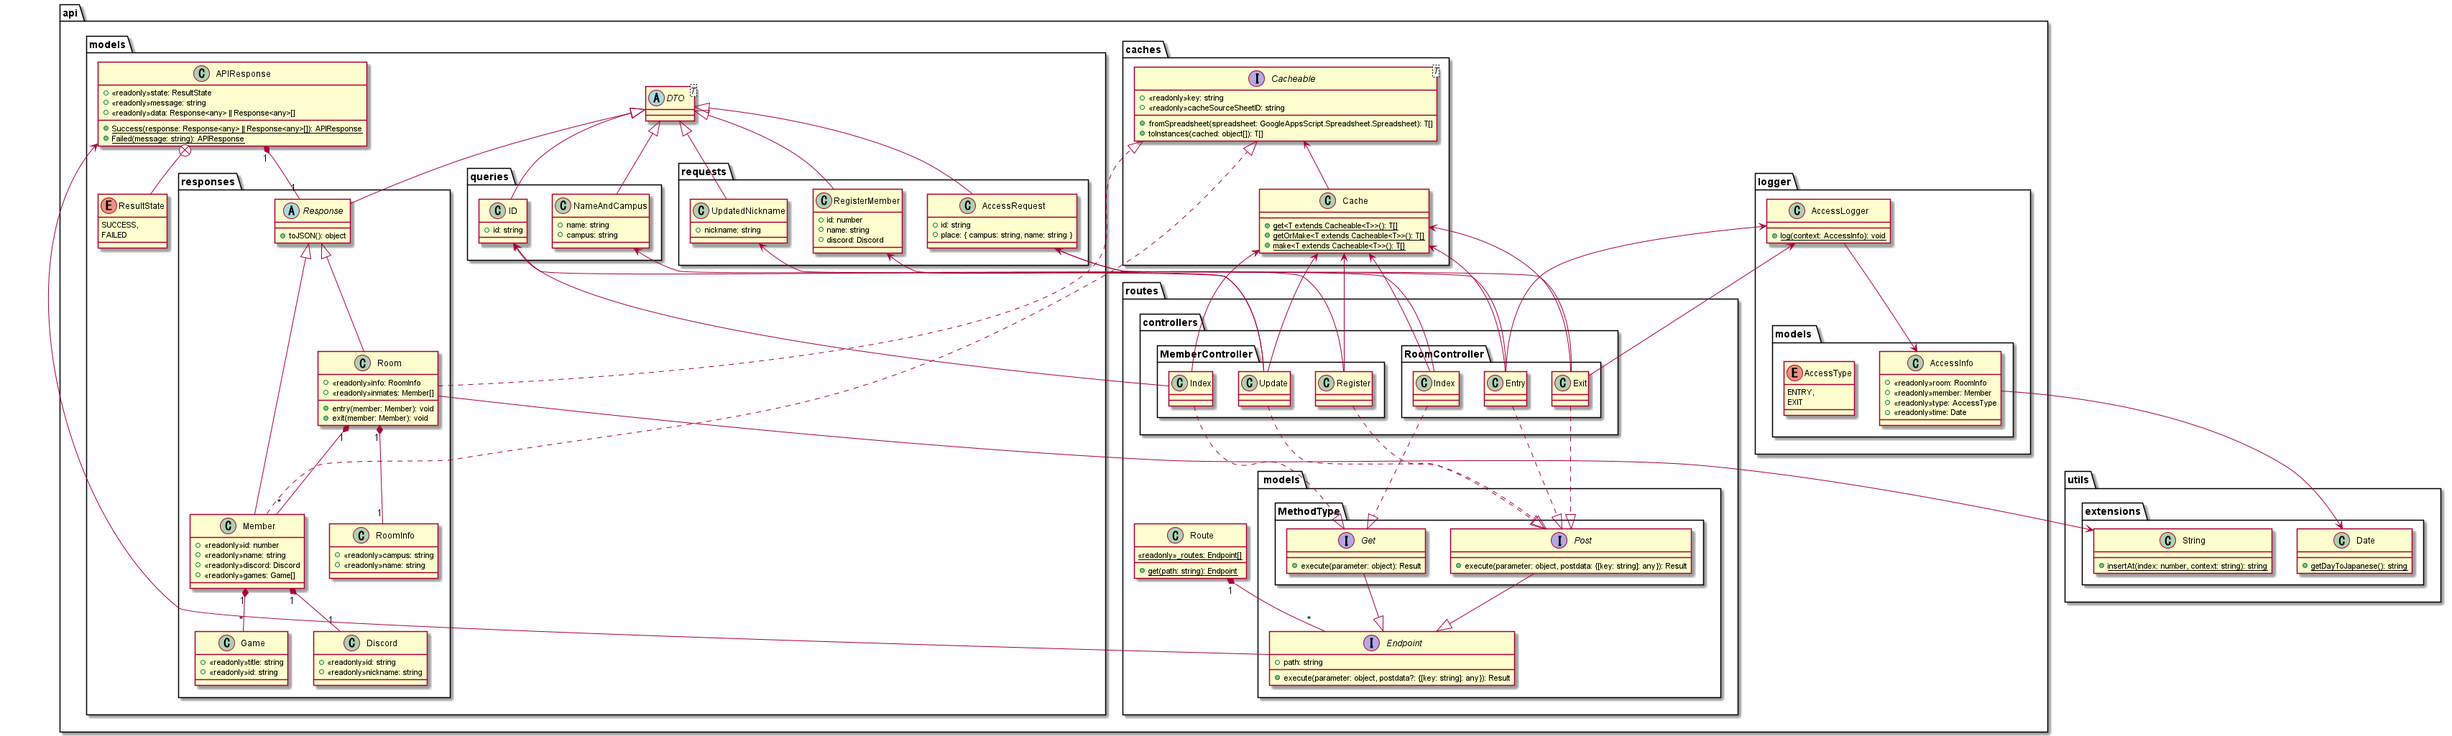
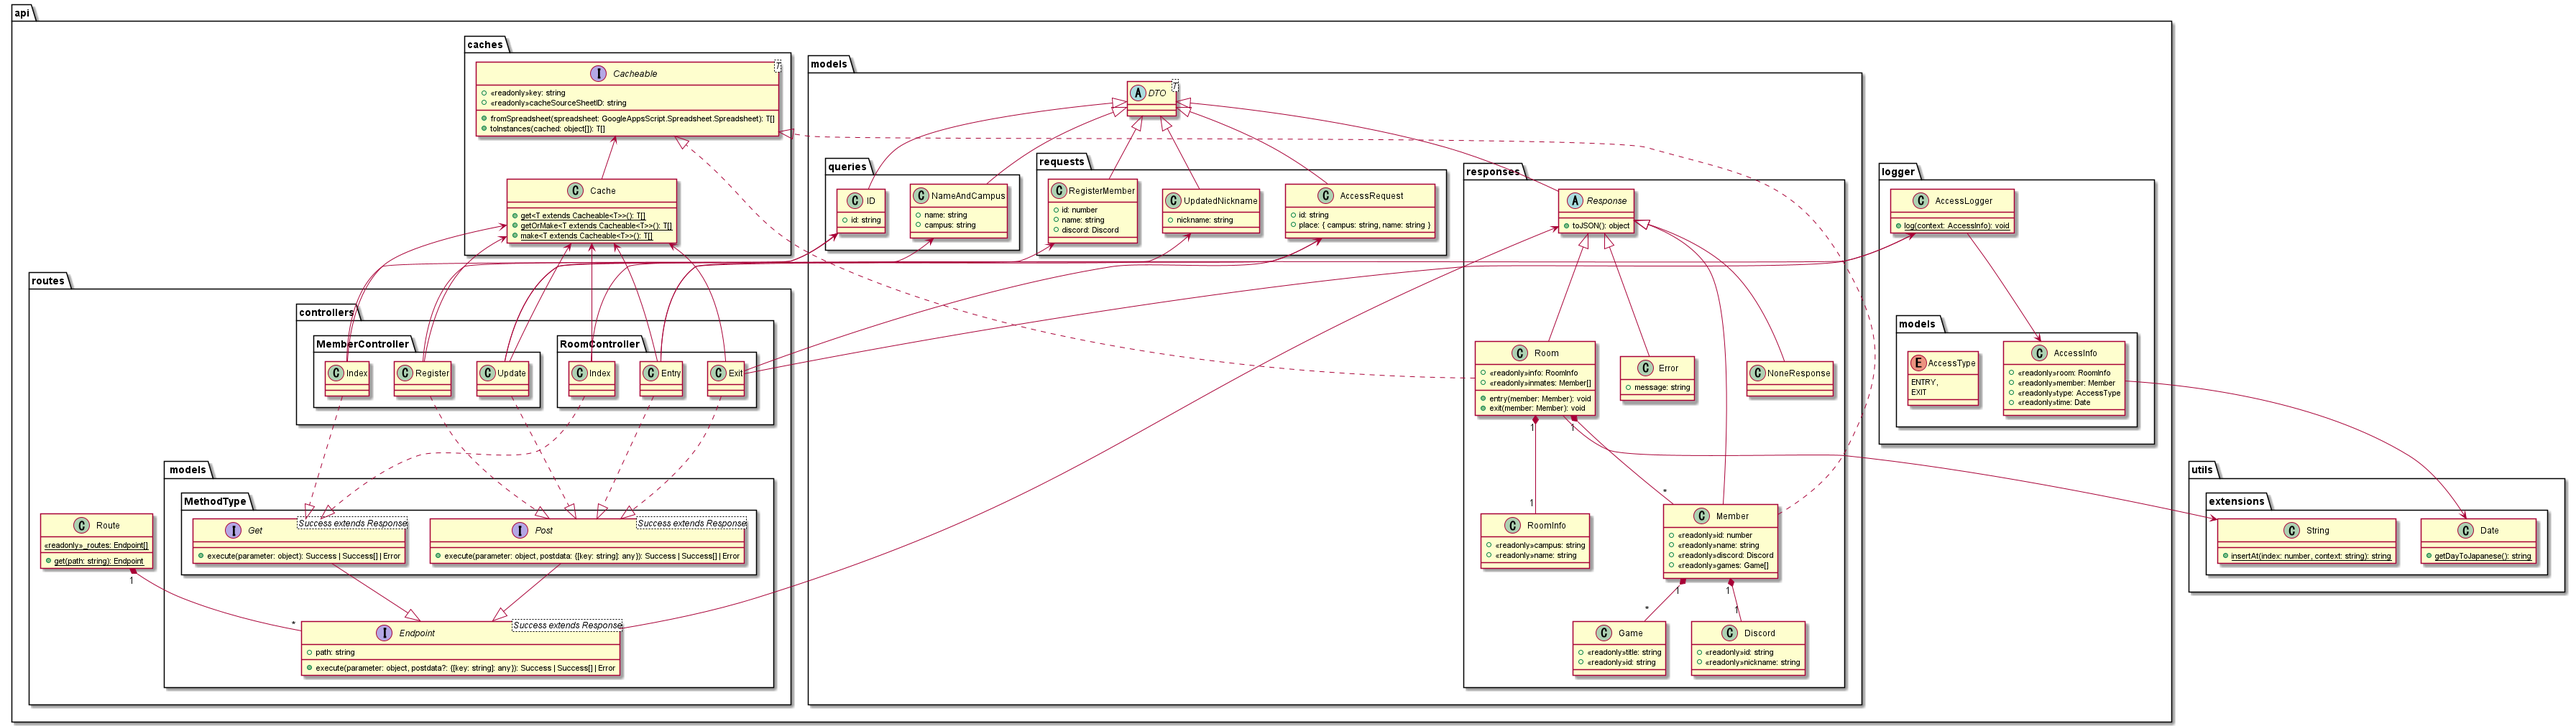
change response object

diff --git a/src/api/routes/controllers/roomController.ts b/src/api/routes/controllers/roomController.ts
@@ -1,93 +1,87 @@
 import { Cache } from "../../caches";
-import { APIResponse } from "../../models";
 import { NameAndCampus } from "../../models/queries/nameAndCampus";
-import { Room, Member, RoomInfo } from "../../models/responses";
+import { Error, Room, Member, RoomInfo, NoneResponse } from "../../models/responses";
 import { Get, Post } from "../models/methodType";
 import { AccessRequest } from "../../models/requests";
 import { AccessInfo, AccessType, AccessLogger } from "../../logger";
 
 export namespace RoomController {
-    export class Index implements Get {
+    export class Index implements Get<Room> {
         path: string;
 
         constructor() {
             this.path = "room";
         }
 
-        execute(parameter: object): APIResponse {
+        execute(parameter: object): Room[] | Error {
             const cached = Cache.getOrMake<Room>(Room);
             const query = new NameAndCampus(parameter);
+            if (!query.campus && !query.name) {
+                return cached;
+            }
             const rooms = cached.filter((room) => {
                 return room.info.name == query.name || room.info.campus == query.campus
             });
             if (rooms.length) {
-                return APIResponse.Success(rooms);
+                return rooms;
             }
-            return APIResponse.Success(cached);
+            return new Error("No rooms were found for the specified criteria.")
         }
     }
-    export class Entry implements Post {
+    export class Entry implements Post<NoneResponse> {
         path: string;
 
         constructor() {
             this.path = "room/entry";
         }
 
-        execute(parameter: object, postdata: object): APIResponse {
+        execute(parameter: object, postdata: object): NoneResponse | Error {
             const req = new AccessRequest(postdata);
             const cached = Cache.getOrMake<Member>(Member);
-            try {
-                const member = cached.find((member) => member.id?.toString() == req.id);
-                if (!member) {
-                    return APIResponse.Failed(Utilities.formatString("No member with ID %s was found", req.id));
-                }
-                const info = new RoomInfo(req.place.campus, req.place.name);
-                const accessInfo = new AccessInfo(info, member, AccessType.ENTRY);
-                const room = Cache.getOrMake<Room>(Room).find((room) => {
-                    return room.info.campus == info.campus && room.info.name == info.name;
-                }) || new Room(info, []);
-                if (!room.inmates.some((inmate) => inmate.id == member.id)) {
-                    room.entry(member);
-                    Cache.make<Room>(Room);
-                    AccessLogger.log(accessInfo);
-                    return APIResponse.Success(null);
-                }
-                return APIResponse.Failed("Already entered the room");
-            } catch (e) {
-                return APIResponse.Failed(e.message);
+            const member = cached.find((member) => member.id?.toString() == req.id);
+            if (!member) {
+                return new Error(Utilities.formatString("No member with ID %s was found", req.id));
             }
+            const info = new RoomInfo(req.place.campus, req.place.name);
+            const accessInfo = new AccessInfo(info, member, AccessType.ENTRY);
+            const room = Cache.getOrMake<Room>(Room).find((room) => {
+                return room.info.campus == info.campus && room.info.name == info.name;
+            }) || new Room(info, []);
+            if (!room.inmates.some((inmate) => inmate.id == member.id)) {
+                room.entry(member);
+                Cache.make<Room>(Room);
+                AccessLogger.log(accessInfo);
+                return new NoneResponse();
+            }
+            return new Error("Already entered the room");
         }
     }
-    export class Exit implements Post {
+    export class Exit implements Post<NoneResponse> {
         path: string;
 
         constructor() {
             this.path = "room/exit";
         }
 
-        execute(parameter: object, postdata: object): APIResponse {
+        execute(parameter: object, postdata: object): NoneResponse | Error {
             const req = new AccessRequest(postdata);
             const cached = Cache.getOrMake<Member>(Member);
-            try {
-                const member = cached.find((member) => member.id?.toString() == req.id);
-                if (!member) {
-                    return APIResponse.Failed(Utilities.formatString("No member with ID %s was found", req.id));
-                }
-                const info = new RoomInfo(req.place.campus, req.place.name);
-                const accessInfo = new AccessInfo(info, member, AccessType.EXIT);
-                const room = Cache.getOrMake<Room>(Room).find((room) => {
-                    return room.info.campus == info.campus && room.info.name == info.name;
-                });
-                if (room && room.inmates.some((inmate) => inmate.id == member.id)) {
-                    room.exit(member);
-                    Cache.make<Room>(Room);
-                    AccessLogger.log(accessInfo);
-                    return APIResponse.Success(null);
-                }
-                return APIResponse.Failed("Already exited the room");
-            } catch (e) {
-                return APIResponse.Failed(e.message);
+            const member = cached.find((member) => member.id?.toString() == req.id);
+            if (!member) {
+                return new Error(Utilities.formatString("No member with ID %s was found", req.id));
             }
+            const info = new RoomInfo(req.place.campus, req.place.name);
+            const accessInfo = new AccessInfo(info, member, AccessType.EXIT);
+            const room = Cache.getOrMake<Room>(Room).find((room) => {
+                return room.info.campus == info.campus && room.info.name == info.name;
+            });
+            if (room && room.inmates.some((inmate) => inmate.id == member.id)) {
+                room.exit(member);
+                Cache.make<Room>(Room);
+                AccessLogger.log(accessInfo);
+                return new NoneResponse();
+            }
+            return new Error("Already exited the room");
         }
     }
 }

diff --git a/src/api/routes/controllers/memberController.ts b/src/api/routes/controllers/memberController.ts
@@ -1,44 +1,40 @@
 import { Cache } from "../../caches";
-import { APIResponse } from "../../models";
+import { Error, NoneResponse } from "../../models/responses";
 import { ID } from "../../models/queries/id";
 import { RegisterMember, UpdatedNickname } from "../../models/requests";
 import { Member } from "../../models/responses";
 import { Get, Post } from "../models/methodType";
 
 export namespace MemberController {
-    export class Index implements Get {
+    export class Index implements Get<Member> {
         path: string;
 
         constructor() {
             this.path = "member";
         }
 
-        execute(parameter: object): APIResponse {
+        execute(parameter: object): Member | Error {
             const cached = Cache.getOrMake<Member>(Member);
             const query = new ID(parameter);
-            try {
-                const member = cached.find((member) => member.id?.toString() == query.id)
-                return APIResponse.Success(member);
-            } catch (e) {
-                return APIResponse.Failed("id was not specified")
-            }
+            const member = cached.find((member) => member.id?.toString() == query.id);
+            return member || new Error(Utilities.formatString("The member with id %s did not exist", query.id));
         }
     }
 
-    export class Update implements Post {
+    export class Update implements Post<NoneResponse> {
         path: string;
 
         constructor() {
             this.path = "member/update";
         }
 
-        execute(parameter: object, postdata: object): APIResponse {
+        execute(parameter: object, postdata: object): NoneResponse | Error {
             const cached = Cache.getOrMake<Member>(Member);
             const query = new ID(parameter);
             const body = new UpdatedNickname(postdata);
             const index = cached.findIndex((member) => member.discord?.id == query.id);
-            if(index < 0) {
-                return APIResponse.Failed("Unregistered ID");
+            if (index < 0) {
+                return new Error("Unregistered ID");
             }
             const id = PropertiesService.getScriptProperties().getProperty("NAME_LIST_SHEET_ID");
             const spreadsheet = SpreadsheetApp.openById(id);
@@ -46,24 +42,24 @@ export namespace MemberController {
             const cell = range.getCell(index + 1, 2);
             cell.setValue(body.nickname);
             Cache.make<Member>(Member);
-            return APIResponse.Success(null);
+            return new NoneResponse();
         }
     }
 
-    export class Register implements Post {
+    export class Register implements Post<NoneResponse> {
         path: string;
 
         constructor() {
             this.path = "member/register";
         }
 
-        execute(parameter: object, postdata: object): APIResponse {
+        execute(parameter: object, postdata: object): NoneResponse | Error {
             const body = new RegisterMember(postdata);
             const id = PropertiesService.getScriptProperties().getProperty("NAME_LIST_SHEET_ID");
             const spreadsheet = SpreadsheetApp.openById(id);
             spreadsheet.appendRow(["", body.id, body.name, "", "", "", "", body.discord.id, body.discord.nickname]);
             Cache.make<Member>(Member);
-            return APIResponse.Success(null);
+            return new NoneResponse();
         }
     }
 }

diff --git a/src/api/routes/models/methodType.ts b/src/api/routes/models/methodType.ts
@@ -1,10 +1,10 @@
 import { Endpoint } from "."
-import { APIResponse } from "../../models"
+import { Error, Response } from "../../models/responses"
 
-export interface Get extends Endpoint {
-    execute(parameter: object): APIResponse
+export interface Get<Success extends Response<Success>> extends Endpoint<Success> {
+    execute(parameter: object): Success | Success[] | Error
 }
 
-export interface Post extends Endpoint {
-    execute(parameter: object, postdata: object): APIResponse
+export interface Post<Success extends Response<Success>> extends Endpoint<Success> {
+    execute(parameter: object, postdata: object): Success | Success[] | Error
 }

diff --git a/src/api/routes/models/endpoint.ts b/src/api/routes/models/endpoint.ts
@@ -1,6 +1,6 @@
-import { APIResponse } from "../../models";
+import { Error, Response } from "../../models/responses";
 
-export interface Endpoint {
+export interface Endpoint<Success extends Response<Success>> {
     path: string;
-    execute(parameter: object, postdata?: object): APIResponse
+    execute(parameter: object, postdata?: object): Success | Success[] | Error
 }

diff --git a/src/api/models/responses/index.ts b/src/api/models/responses/index.ts
@@ -1,6 +1,8 @@
 export { Discord } from "./discord"
+export { Error } from "./error"
 export { Game } from "./game"
 export { Member } from "./member"
+export { NoneResponse } from "./noneResponse"
 export { Response } from "./response"
 export { Room } from "./room"
 export { RoomInfo } from "./roomInfo"

diff --git a/src/api/models/responses/error.ts b/src/api/models/responses/error.ts
@@ -1,0 +1,15 @@
+import { Response } from ".";
+
+export class Error extends Response<Error> {
+    message: string;
+
+    constructor(message: string) {
+        super({ message: message });
+    }
+
+    toJSON(): object {
+        return {
+            message: this.message
+        };
+    }
+} 

diff --git a/src/api/models/responses/noneResponse.ts b/src/api/models/responses/noneResponse.ts
@@ -1,0 +1,11 @@
+import { Response } from ".";
+
+export class NoneResponse extends Response<NoneResponse> {
+    constructor() {
+        super({});
+    }
+
+    toJSON(): object {
+        return {}
+    }
+}

diff --git a/src/api/models/index.ts b/src/api/models/index.ts
@@ -1,2 +1,1 @@
-export { APIResponse } from "./apiResponse"
 export { DTO } from "./dto"
